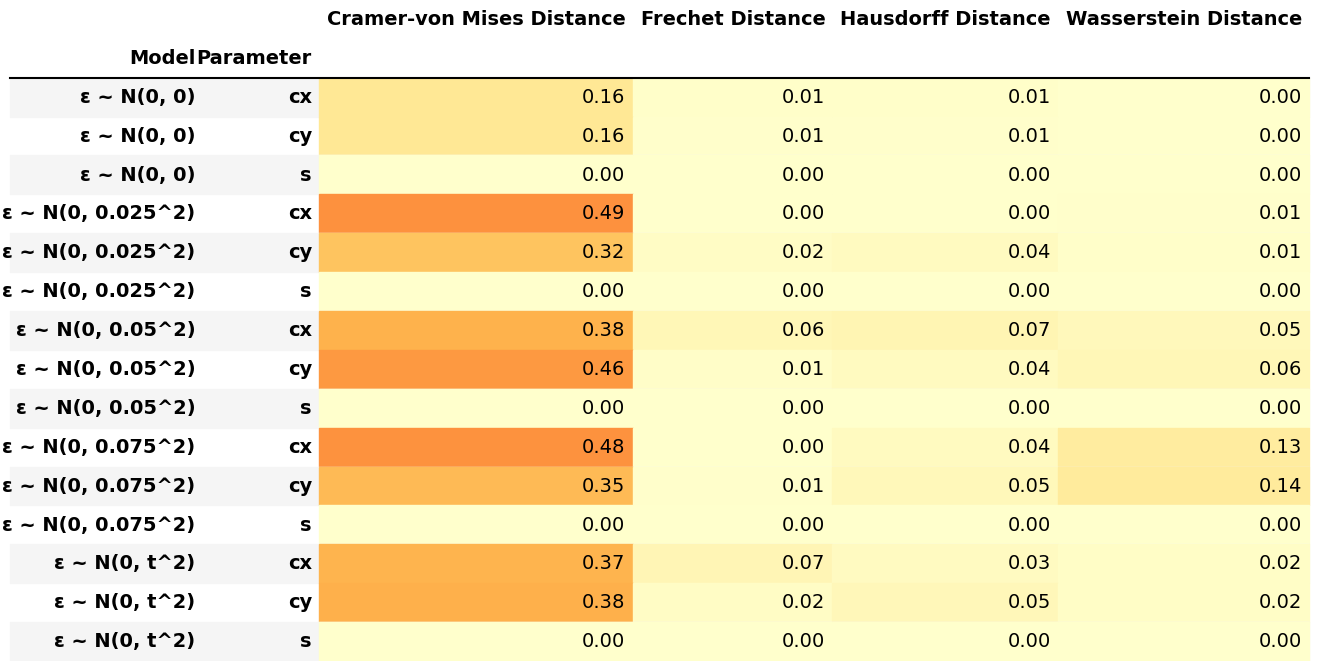
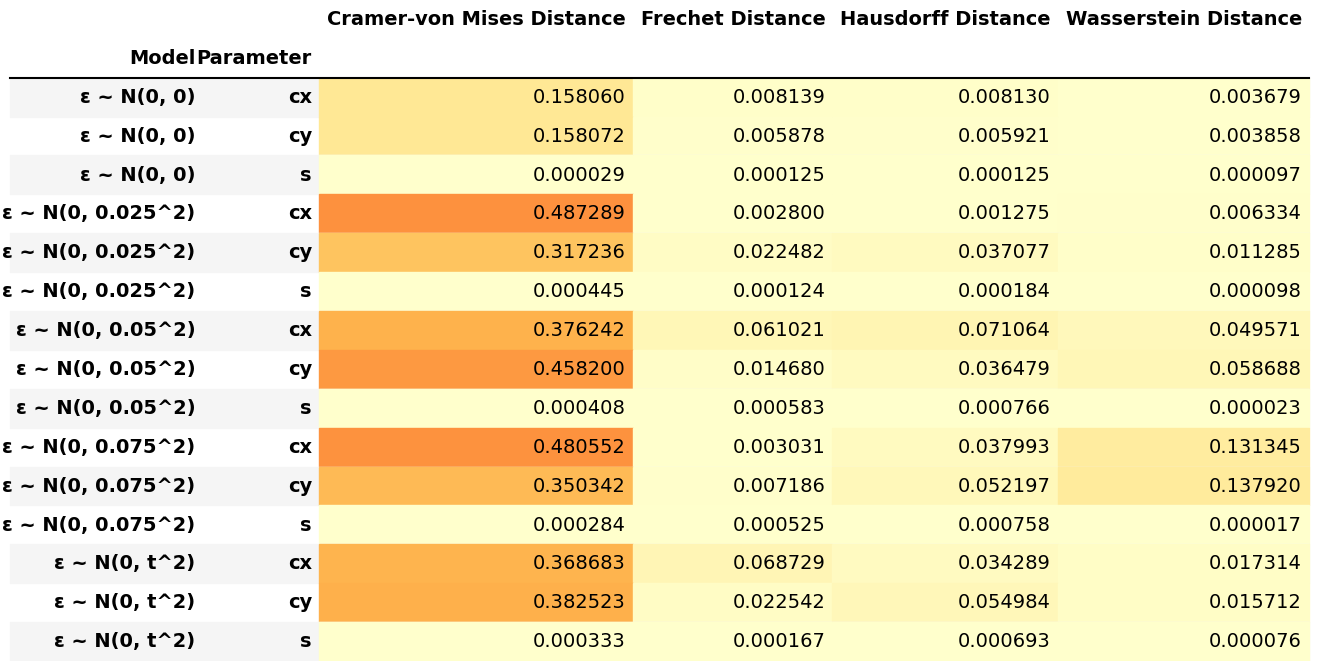
changed plots.

diff --git a/gaussian_plume/results_table.py b/gaussian_plume/results_table.py
@@ -47,7 +47,7 @@ if __name__ == "__main__":
     rmse_table = pd.pivot_table(rmse, values=metric_col, index = ["Model", "Parameter"])
 
     rmse_styled = rmse_table.style.background_gradient(axis=None, vmin=0, vmax=1, cmap="YlOrRd") #adding a gradient based on values in cell
-    rmse_styled.format(precision=2)
+    # rmse_styled.format(precision=2)
 
     save_path_t2 = os.path.join(PLOT_PATH, "rmse_table.png")
     dfi.export(rmse_styled, save_path_t2, table_conversion="celenium")
@@ -59,7 +59,7 @@ if __name__ == "__main__":
     piv_table = piv_table[metric_col]
 
     stdev_styled = piv_table.style.background_gradient(axis=None, vmin=0, vmax=5, cmap="YlOrRd") #adding a gradient based on values in cell
-    stdev_styled.format(precision=2)
+    # stdev_styled.format(precision=2)
 
     save_path_t3 = os.path.join(PLOT_PATH, "stdev_table.png")
     dfi.export(stdev_styled, save_path_t3, table_conversion="celenium")
@@ -129,6 +129,6 @@ if __name__ == "__main__":
                                                     ('ε ~ N(0, t^2)',  'cy'),
                                                     ('ε ~ N(0, t^2)', 's')], names=["Model", "Parameter"])
 
-    ci_pivot_table = ci_pivot_table.style.format(precision=2)
+    # ci_pivot_table = ci_pivot_table.style.format(precision=2)
     save_path_t6 = os.path.join(PLOT_PATH, "ci_proportion.png")
     dfi.export(ci_pivot_table, save_path_t6, table_conversion="celenium")
